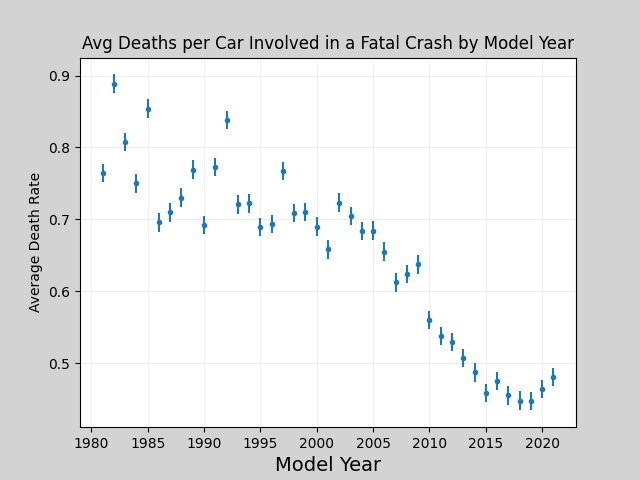
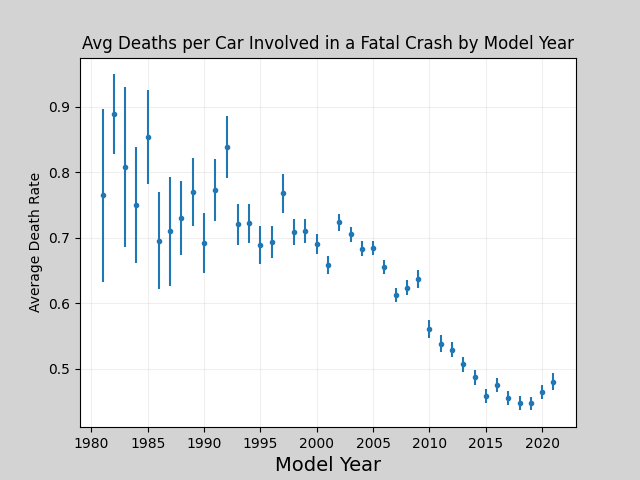
I added all of my graphs

diff --git a/src/make_plots.py b/src/make_plots.py
@@ -107,8 +107,8 @@ class Plotter:
             avgDeath = np.mean(subDF.DEATHS)
             avgDeaths.append(avgDeath)
             
-            errs = np.std(subDF.DEATHS)/np.sqrt(len(subDF.DEATHS))
-        
+            err = np.std(subDF.DEATHS)/np.sqrt(len(subDF.DEATHS))
+            errs.append(err)
         
         fig, ax = plt.subplots()
         fig.set_facecolor("lightgrey")
@@ -119,9 +119,83 @@ class Plotter:
         ax.set_title("Avg Deaths per Car Involved in a Fatal Crash by Model Year")
         plt.savefig("../plots/by_model_year.png")
         
+    def by_make_and_year(self):
+        mask = (self.df3.MOD_YEAR < 2022) &  (self.df3.MOD_YEAR > 1990)
+
+        years = []
+        avgDeaths = []
+        avgVolvoDeaths = []
+        errs = []
+        errsVolvo = []
+        avgFordDeaths = []
+        errsFord = []
+        for year in set(self.df3.MOD_YEAR[mask]):
+            years.append(year)
+            
+            subDF_Volvo = self.df3[(self.df3.MOD_YEAR == year) & (self.df3.MAKENAME == "Volvo")]
+            subDF = self.df3[(self.df3.MOD_YEAR == year) & (self.df3.MAKENAME == "Toyota")]
+            subDF_Ford = self.df3[(self.df3.MOD_YEAR == year) & (self.df3.MAKENAME == "Ford")]
+            
+            avgDeath = np.mean(subDF.DEATHS)
+            avgDeaths.append(avgDeath)
+            
+            avgDeathVolvo = np.mean(subDF_Volvo.DEATHS)
+            avgVolvoDeaths.append(avgDeathVolvo)
+            
+            avgDeathFord = np.mean(subDF_Ford.DEATHS)
+            avgFordDeaths.append(avgDeathFord)
+            
+            err = np.std(subDF.DEATHS)/np.sqrt(len(subDF.DEATHS))
+            errs.append(err)
+            
+            errVolvo = np.std(subDF_Volvo.DEATHS)/np.sqrt(len(subDF_Volvo.DEATHS))
+            errsVolvo.append(errVolvo)
+            
+            err = np.std(subDF_Ford.DEATHS)/np.sqrt(len(subDF_Ford.DEATHS))
+            errsFord.append(err) 
+            
+        fig, ax = plt.subplots()
+        fig.set_facecolor("lightgrey")
+        ax.errorbar(years, avgDeaths, yerr = errs, linestyle = "none", marker = ".", label = "Toyota")
+        ax.errorbar(years, avgVolvoDeaths, yerr = errsVolvo, linestyle = "none", marker = ".", label = "Volvo")
+        ax.errorbar(years, avgFordDeaths, yerr = errsFord, linestyle = "none", marker = ".", label = "Ford")
+        ax.grid(alpha = 0.2)
+        ax.set_xlabel("Model Year", fontsize = 14)
+        ax.set_ylabel("Average Death Rate", fontsize = 14)
+        ax.set_title("Avg Deaths per Car Involved in a Fatal Crash by Model Year")
+        plt.legend()
+        plt.savefig("../plots/by_make_and_year.png")
+    
+    def by_speed(self):
+        mask = (self.df3.TRAV_SP < 120) & (self.df3.TRAV_SP > 30)
+        speeds = []
+        avgDeaths = []
+        errs = []
+        for speed in set(self.df3.TRAV_SP[mask]):
+            speeds.append(speed)
+            
+            subDF = self.df3[self.df3.TRAV_SP == speed]
+            
+            avgDeath = np.mean(subDF.DEATHS)
+            avgDeaths.append(avgDeath)
+            
+            err = np.std(subDF.DEATHS)/np.sqrt(len(subDF.DEATHS))
+            
+            errs.append(err)
+
+        fig, ax = plt.subplots()
+        fig.set_facecolor("lightgrey")
+        ax.errorbar(speeds, avgDeaths, yerr = errs, linestyle = "none", marker = ".")
+        ax.grid(alpha = 0.2)
+        ax.set_xlabel("Speed (MPH)", fontsize = 14)
+        ax.set_ylabel("Average Death Rate", fontsize = 14)
+        ax.set_title("Avg Deaths per Car Involved in a Fatal Crash by Travel Speed")
+        plt.savefig("../plots/by_speed.png")
         
 if __name__ == "__main__":
     plotter = Plotter()
-    plotter.by_time()
+    #plotter.by_time()
     #plotter.by_weather()
     #plotter.by_model_year()
+    #plotter.by_make_and_year()
+    plotter.by_speed()
